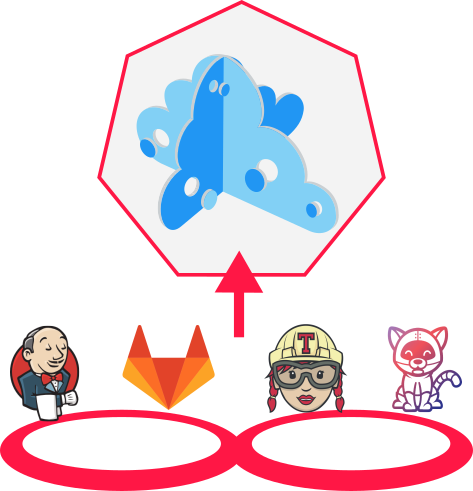
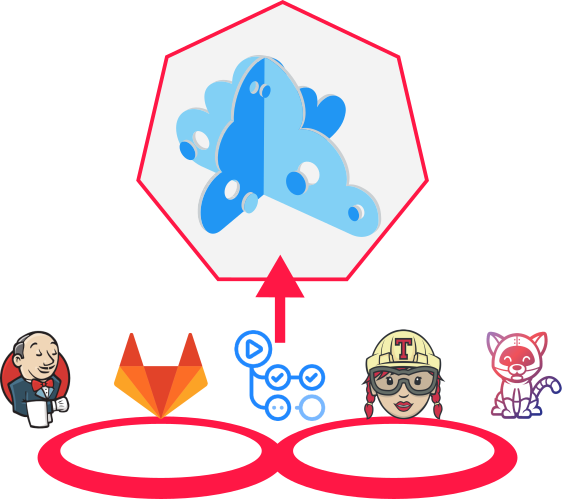
microcks/microcks#348 Adding GitHub action documentation

diff --git a/themes/microcks/layouts/partials/home-page-sections/features-icons.html b/themes/microcks/layouts/partials/home-page-sections/features-icons.html
@@ -35,7 +35,7 @@
     </div>
   {{ end }}
   <div class="mt3 pv3 f3 w-70 w-70-ns center tc tc-ns">
-    <i>USE YOUR SPECIFICATION FOR <b>TESTING CONTINUOUSLY!</b>. INTEGRATE MICROCKS FROM YOUR JENKINS, GITLAB OR TEKTON PIPELINE.</i>
+    <i>USE YOUR SPECIFICATION FOR <b>TESTING CONTINUOUSLY!</b>. INTEGRATE MICROCKS FROM YOUR JENKINS, GITHUB, GITLAB OR TEKTON PIPELINE.</i>
     <br/>
     <img class="microcks-ci-img mt3" src="/images/microcks-ci.png" alt="Microcks CI">
   </div>

diff --git a/content/documentation/automating/github-actions.md b/content/documentation/automating/github-actions.md
@@ -1,0 +1,74 @@
+---
+draft: false
+title: "Using Microcks from GitHub Actions"
+date: 2021-02-19
+publishdate: 2021-02-19
+lastmod: 2021-02-19
+menu:
+  docs:
+    parent: automating
+    name: Using Microcks from GitHub Actions
+    weight: 41
+toc: true
+weight: 41 #rem
+---
+
+## Microcks GitHub Actions
+
+### What is it?
+
+The [Microcks Test GitHub Action](https://github.com/microcks/test-github-action) is a GitHub Action you may use in your Workflow to launch a Microcks test on a deployed API endpoint. If test succeeds (ie. API endpoint is compliant with API contract in Microcks) the workflow is pursuing, if not it fails. This action is basically a wrapper around the [Microcks CLI](https://github.com/microcks/microcks-cli) and provides the same configuration capabilities. 
+
+The `test` command of the CLI needs 3 arguments:
+
+* `<apiName:apiVersion>` : Service to test reference. Exemple: `'Beer Catalog API:0.9'`
+* `<testEndpoint>` : URL where is deployed implementation to test
+* `<runner>` : Test strategy (one of: `HTTP`, `SOAP`, `SOAP_UI`, `POSTMAN`, `OPEN_API_SCHEMA`, `ASYNC_API_SCHEMA`)
+
+With a bunch of mandatory flags:
+
+* `--microcksURL` for the Microcks API endpoint,
+* `--keycloakClientId` for the Keycloak Realm Service Account ClientId,
+* `--keycloakClientSecret` for the Keycloak Realm Service Account ClientSecret.
+
+And some optional ones:
+
+* `--waitFor` for the time to wait for test to finish (int + one of: milli, sec, min). Default is `5sec`,
+* `--secretName='<Secret Name>'` is an optional flag specifying the name of a Secret to use for connecting endpoint,
+* `--operationsHeaders=<JSON>` allows to override some operations headers for the tests to launch.
+
+### How to use it?
+
+Obviously we can find this action with [GitHub Actions Marketplace](https://github.com/marketplace?type=actions) 😉
+
+You may add the Action to your Workflow directly from the GitHub UI.
+
+![marketplace](/images/github-marketplace.png)
+
+#### Step 1 - Configure the GitHub action
+
+```yaml
+name: my-workflow
+on: [push]
+jobs:
+  my-job:
+    runs-on: ubuntu-latest
+    environment: Development
+    steps:
+      - uses: microcks/test-github-action@v1
+        with:
+          apiNameAndVersion: 'API Pastry - 2.0:2.0.0'
+          testEndpoint: 'http://my-api-pastry.apps.cluster.example.com'
+          runner: OPEN_API_SCHEMA
+          microcksURL: 'https://microcks.apps.acme.com/api/'
+          keycloakClientId:  ${{ secrets.MICROCKS_SERVICE_ACCOUNT }}
+          keycloakClientSecret:  ${{ secrets.MICROCKS_SERVICE_ACCOUNT_CREDENTIALS }}
+          waitFor: '10sec'
+```
+
+#### Step 2 - Configure the Secrets
+
+As you probably saw just above, we do think it's a best practice to use GitHub Secrets (general or tied to `Environment` like in the example) to hold the Keycloak credentials (client Id and Secret). See below the Secrets configuration we've used for the example:
+
+![secret configuration](/images/github-secrets.png)
+
